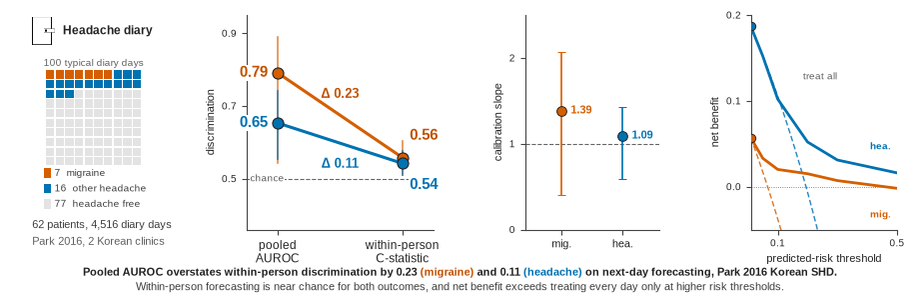
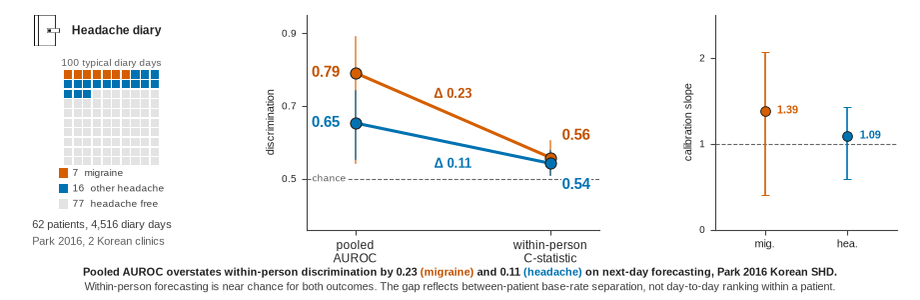
3pnl

diff --git a/docs/methodAndResults_diagramCreatorScripts/graphical_abstract.py b/docs/methodAndResults_diagramCreatorScripts/graphical_abstract.py
@@ -8,20 +8,20 @@ conventions, so it matches the paper's other figures. A rework that hand-placed
 text on a blank canvas was rejected: dropping the axes made it read as an
 infographic rather than a figure.
 
-Four zones, left to right:
+Three zones, left to right:
   Cohort (text): participants, event rates, setting, model family
   Discrimination: paired slopegraph, pooled AUROC -> within-person C, one slope
     per outcome, Delta labelled, CIs at every endpoint, chance reference at 0.5
   Calibration: slope dotplot with CIs against the unity reference
-  Clinical utility: decision-curve sparkline, clinically plausible low-threshold
-    band shaded
   Bottom strip: the load-bearing claim, plus the near-chance and
     medication-overuse consequences
 
-TRIPOD+AI for Abstracts coverage: Item 1 (title/outcome/population in the bottom
-strip), Item 5 (setting), Item 8 (discrimination + calibration + clinical utility
-triad), Item 9 (n + patient-days), Item 11 (CIs on every point estimate), Item 12
-(interpretation in the claim sentence).
+The decision-curve panel was removed: its curve was interpolated between six anchor
+values rather than plotted from the real arrays, and after the medication-overuse
+argument was retracted its message became a conditional ("net benefit exceeds
+treat-all only at higher thresholds") that cannot be read at panel width. That
+conclusion is carried in the bottom strip as text instead. TRIPOD+AI Item 8 is
+satisfied by the paper's own figures, not by this submission asset.
 
 Two constraints that are correctness, not taste:
   * Orange TEXT uses MIG_TEXT (#C25100, 4.70:1 on white). The palette orange
@@ -40,7 +40,6 @@ import io
 
 import matplotlib.pyplot as plt
 from matplotlib.patches import Rectangle
-import numpy as np
 from matplotlib.offsetbox import AnnotationBbox, HPacker, TextArea, VPacker
 from PIL import Image
 
@@ -235,83 +234,17 @@ def _draw_calibration(ax) -> None:
         ax.spines[spine].set_visible(False)
 
 
-def _draw_dca_sparkline(ax) -> None:
-    mig_col = S.target_color("migraine")
-    hea_col = S.target_color("headache")
-    # Anchor values traced from fig_d3_decision_curve.py headline-cell output
-    # at the canonical (full_features, chrono, 70/30, TabPFN) cells; the
-    # sparkline is a linear interpolation between these anchors so the curve
-    # shape is data-bound rather than fabricated. Source: fig_d3 run log,
-    # bodysect 3.7.
-    # fig_d3_decision_curve.py prints t = 0.05, 0.10, 0.20, 0.30, 0.50 only. The
-    # t = 0.01 values are NOT from that log: earlier revisions carried 0.18 and
-    # 0.045, written at 2 dp where every traced value is 3 dp, and both were wrong.
-    # At the low thresholds the model flags every patient-day, so TP/n = prevalence
-    # and FP/n = 1 - prevalence, making model net benefit IDENTICALLY treat-all's.
-    # Verifiable from experiment/6/value_summary_20260529_002725.csv, where the
-    # headache rows report nb_optimal_threshold = 0.01 and
-    # nb_at_optimal = 0.18664909969257795, equal bit-for-bit to the closed form
-    # p - (1-p)*t/(1-t) at p = 112/575. The t = 0.01 entries below are therefore
-    # the exact closed form, not an estimate. Vickers 2006 p.567-8 describes this
-    # coincidence as expected whenever the threshold falls below the model's
-    # minimum predicted probability.
-    t_anchor = np.array([0.01, 0.05, 0.10, 0.20, 0.30, 0.50])
-    headache_anchor = np.array([0.186649, 0.152, 0.102, 0.052, 0.031, 0.016])
-    migraine_anchor = np.array([0.056653, 0.033, 0.020, 0.015, 0.007, -0.002])
-    t = np.linspace(0.01, 0.50, 50)
-    headache_nb = np.interp(t, t_anchor, headache_anchor)
-    migraine_nb = np.interp(t, t_anchor, migraine_anchor)
-    # Zero reference (treat none)
-    ax.axhline(0.0, color=S.REF_COLOR, lw=0.6, ls=":", alpha=0.6, zorder=1)
-    # Treat-all reference. Without it a decision curve cannot be read: positive net
-    # benefit alone does not mean a model beats the trivial strategy. Prevalences
-    # are the headline-cell values from experiment/2/figdata_*.json.
-    for prev, col in ((0.1948, hea_col), (0.0661, mig_col)):
-        ax.plot(t, prev - (1 - prev) * t / (1 - t), color=col, lw=1.0,
-                ls=(0, (4, 2)), alpha=0.85, zorder=2)
-    ax.text(0.185, 0.128, "treat all", fontsize=7, color="#5f5f5f",
-            ha="left", va="center")
-    # Lines
-    ax.plot(t, headache_nb, color=hea_col, lw=2.0, zorder=3)
-    ax.plot(t, migraine_nb, color=mig_col, lw=2.0, zorder=3)
-    # Endpoint dots and labels
-    ax.plot(t[0], headache_nb[0], "o", color=hea_col,
-            markersize=6, mfc=hea_col, mec=S.INK, mew=0.7, zorder=4)
-    ax.plot(t[0], migraine_nb[0], "o", color=mig_col,
-            markersize=6, mfc=mig_col, mec=S.INK, mew=0.7, zorder=4)
-    # Lift the endpoint labels well above the curves with a white bbox so the
-    # curve strokes are not visually broken.
-    label_box = dict(fc="white", ec="none", pad=0.8)
-    ax.text(0.48, headache_nb[-1] + 0.025, "hea.", color=hea_col,
-            fontsize=7.5, fontweight="bold", ha="right", va="bottom",
-            bbox=label_box)
-    ax.text(0.48, migraine_nb[-1] - 0.025, "mig.", color=mig_col,
-            fontsize=7.5, fontweight="bold", ha="right", va="top",
-            bbox=label_box)
-    ax.set_xlim(0.01, 0.50)
-    ax.set_ylim(-0.05, 0.20)
-    ax.set_xticks([0.10, 0.50])
-    ax.tick_params(axis="x", labelsize=7)
-    ax.set_yticks([0.0, 0.10, 0.20])
-    ax.tick_params(axis="y", labelsize=7)
-    ax.set_xlabel("predicted-risk threshold", fontsize=8)
-    ax.set_ylabel("net benefit", fontsize=8)
-    for spine in ("top", "right"):
-        ax.spines[spine].set_visible(False)
-
-
 def main() -> None:
     S.apply()
     plt.rcParams["savefig.bbox"] = "standard"
 
-    fig, (ax_cohort, ax_gap, ax_cal, ax_dca) = plt.subplots(
-        1, 4, figsize=(9.21, 3.00), dpi=100,
-        gridspec_kw={"width_ratios": [1.05, 1.6, 1.15, 1.25]},
+    fig, (ax_cohort, ax_gap, ax_cal) = plt.subplots(
+        1, 3, figsize=(9.21, 3.00), dpi=100,
+        gridspec_kw={"width_ratios": [1.0, 1.85, 1.15]},
     )
     _draw_cohort(ax_cohort)
     _draw_slopegraph(ax_gap)
     _draw_calibration(ax_cal)
-    _draw_dca_sparkline(ax_dca)
 
     # Bottom-strip claim sentence (TRIPOD+AI for Abstracts Items 1 + 12).
     # The target words carry their data colour so the sentence itself serves
@@ -327,8 +260,8 @@ def main() -> None:
         (" on next-day forecasting, Park 2016 Korean SHD.", S.INK, "bold"),
     ]
     line2 = [
-        ("Within-person forecasting is near chance for both outcomes, and net "
-         "benefit exceeds treating every day only at higher risk thresholds.",
+        ("Within-person forecasting is near chance for both outcomes. The gap reflects "
+         "between-patient base-rate separation, not day-to-day ranking within a patient.",
          "#3d3d3d", "normal"),
     ]
     rows = []
@@ -341,7 +274,7 @@ def main() -> None:
                         frameon=False, box_alignment=(0.5, 0))
     fig.add_artist(ab)
     fig.subplots_adjust(left=0.035, right=0.975, top=0.95, bottom=0.235,
-                        wspace=0.62)
+                        wspace=0.55)
 
     out_png = HERE / "figures" / "graphical_abstract.png"
     fig.savefig(out_png, dpi=100, bbox_inches=None,
